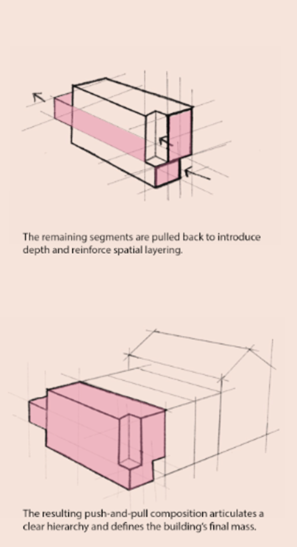
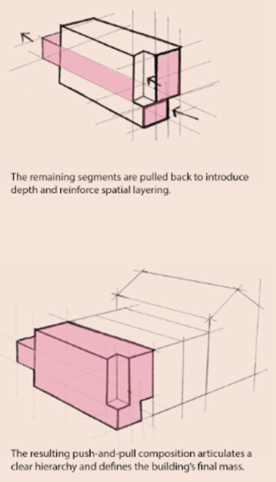
Fix formulation blurriness: crop margins and constrain scale to natural resolution

diff --git a/palimpsest.html b/palimpsest.html
@@ -153,14 +153,20 @@
                         <style>
                             .flex.overflow-x-auto::-webkit-scrollbar { display: none; }
                         </style>
-                        <div class="snap-center shrink-0 w-full max-w-md mx-auto shadow-lg overflow-hidden rounded-none md:rounded-sm bg-white/50 border border-black/5">
-                            <img src="img/project1/palimpsest_concept_a.png" alt="Formulation Diagram 1" class="w-full h-auto object-contain">
+                        <div class="snap-center shrink-0 w-full flex justify-center">
+                            <div class="max-w-[280px] w-full shadow-lg overflow-hidden rounded-none md:rounded-sm bg-white/50 border border-black/5">
+                                <img src="img/project1/palimpsest_concept_a.png" alt="Formulation Diagram 1" class="w-full h-auto">
+                            </div>
                         </div>
-                        <div class="snap-center shrink-0 w-full max-w-md mx-auto shadow-lg overflow-hidden rounded-none md:rounded-sm bg-white/50 border border-black/5">
-                            <img src="img/project1/palimpsest_concept_b.png" alt="Formulation Diagram 2" class="w-full h-auto object-contain">
+                        <div class="snap-center shrink-0 w-full flex justify-center">
+                            <div class="max-w-[280px] w-full shadow-lg overflow-hidden rounded-none md:rounded-sm bg-white/50 border border-black/5">
+                                <img src="img/project1/palimpsest_concept_b.png" alt="Formulation Diagram 2" class="w-full h-auto">
+                            </div>
                         </div>
-                        <div class="snap-center shrink-0 w-full max-w-md mx-auto shadow-lg overflow-hidden rounded-none md:rounded-sm bg-white/50 border border-black/5">
-                            <img src="img/project1/palimpsest_concept_c.png" alt="Formulation Diagram 3" class="w-full h-auto object-contain">
+                        <div class="snap-center shrink-0 w-full flex justify-center">
+                            <div class="max-w-[280px] w-full shadow-lg overflow-hidden rounded-none md:rounded-sm bg-white/50 border border-black/5">
+                                <img src="img/project1/palimpsest_concept_c.png" alt="Formulation Diagram 3" class="w-full h-auto">
+                            </div>
                         </div>
                     </div>
                     <p class="text-center text-[10px] tracking-widest uppercase text-terracotta/70 mt-2">← Swipe left and right →</p>
